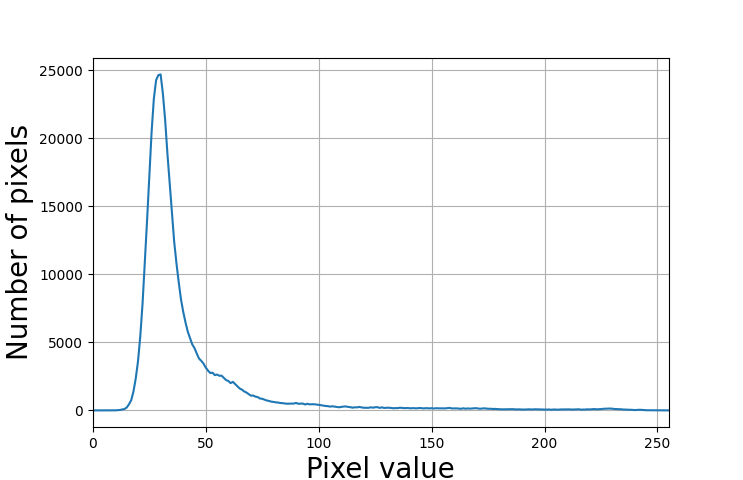
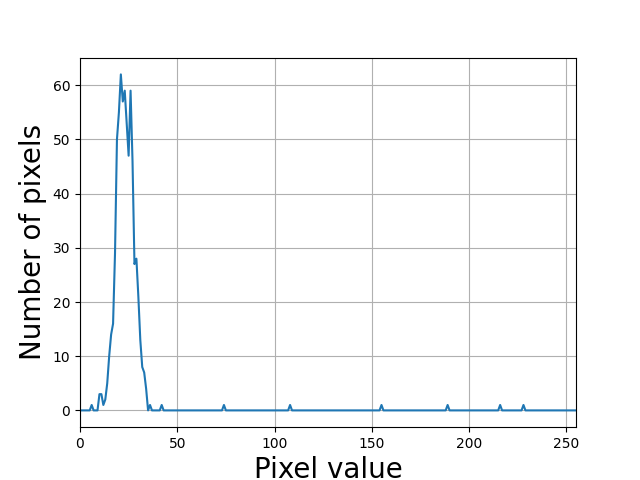
fix

diff --git a/python/opencv/histgram/sample01.py b/python/opencv/histgram/sample01.py
@@ -14,7 +14,7 @@ gray = cv2.cvtColor(img, cv2.COLOR_RGB2GRAY)
 # hist, bins = np.histogram(gray.ravel(),256,[0,256])
 
 # 方法2(OpenCVでヒストグラムの算出)
-hist = cv2.calcHist([img],[0],None,[256],[0,256])
+hist = cv2.calcHist(gray,[0],None,[256],[0,256])
 
 # ヒストグラムの中身表示
 print(hist)
